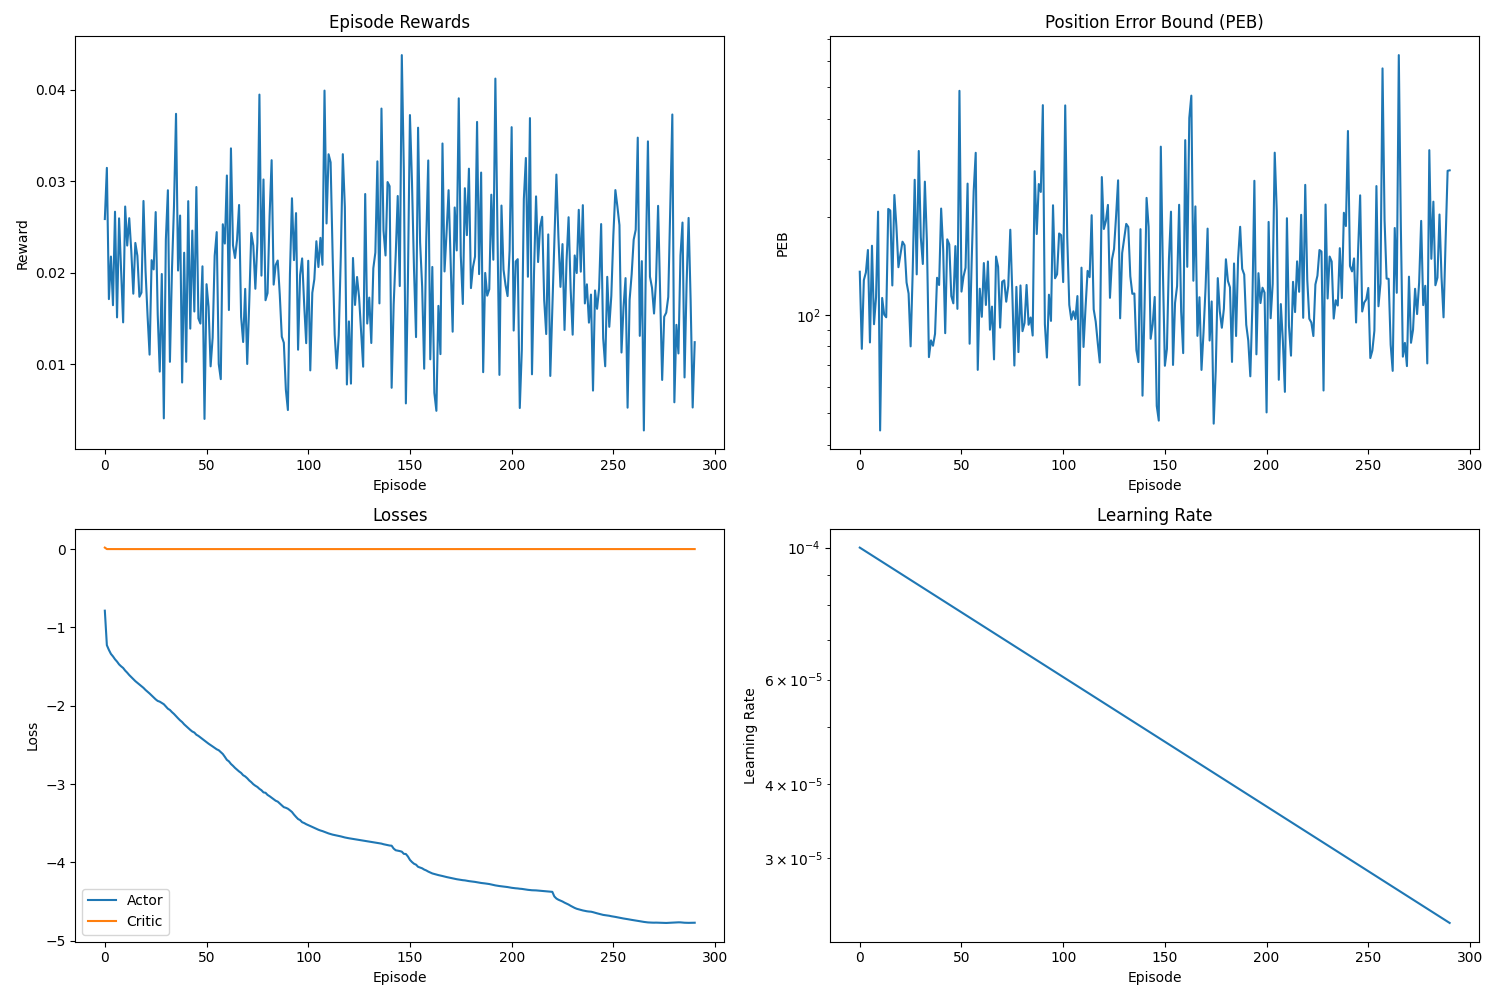
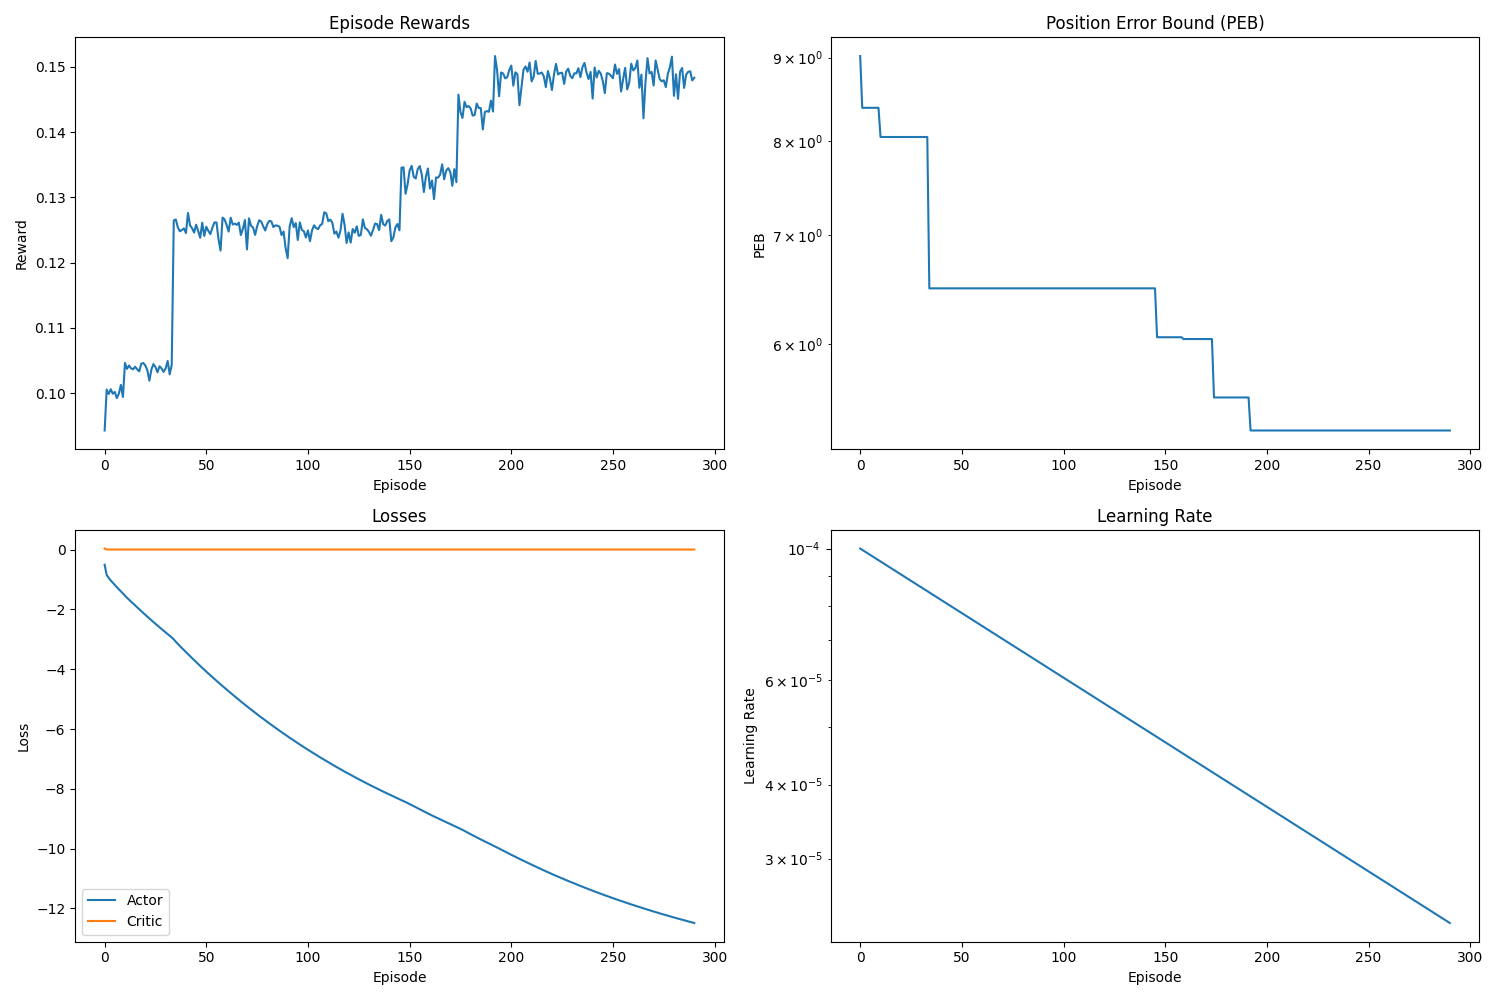
plots generated for midsem ppt

diff --git a/train_ris_isac.py b/train_ris_isac.py
@@ -154,12 +154,12 @@ class RISISACTrainer:
             
             for step in range(max_steps):
 
-                # value = np.random.uniform(0,1)
-                # if (value < epsilon_start):
-                #     explore = True
-                # else:
-                #     explore = False
-                explore = False
+                value = np.random.uniform(0,1)
+                if (value < epsilon_start):
+                    explore = True
+                else:
+                    explore = False
+                # explore = False
 
                 step_counter = step_counter + 1
                 # Select action with exploration
@@ -340,6 +340,9 @@ if __name__ == "__main__":
         # plt.legend()
         
         plt_folder = 'plots'
+        if not os.path.exists(plt_folder):
+            os.makedirs(plt_folder)
+        
         # Plot training rewards
         plt.figure(figsize=(10, 5))
         plt.plot(episodes, rewards)
@@ -373,7 +376,7 @@ if __name__ == "__main__":
         plt.xlabel('Episode')
         plt.ylabel('Power(db)')
         plt.grid(True)
-        plt.savefig(os.path.join(plt_folder,'Hybrid_power_per_episode'))
+        plt.savefig(os.path.join(plt_folder,'power_per_episode'))
         # plt.show()
 
     finally:

diff --git a/RISISAC_V2X_Sim.m b/RISISAC_V2X_Sim.m
@@ -499,6 +499,11 @@ classdef RISISAC_V2X_Sim < handle
             else
                 reward = base_reward;
             end
+
+            % if (obj.peb > obj.minpeb)
+            %     reward = reward*-1;
+            % end
+
         end
 
         function done = isEpisodeDone(obj)
@@ -636,11 +641,11 @@ classdef RISISAC_V2X_Sim < handle
                 obj.peb = obj.peb * penalty_factor;
             end
             obj.peb = sqrt((real(obj.peb)^2) - (imag(obj.peb)^2))*100;
-            % if(obj.peb < obj.minpeb)
-            %     obj.minpeb = obj.peb;
-            % else
-            %     obj.peb = obj.minpeb;
-            % end
+            if(obj.peb < obj.minpeb)
+                obj.minpeb = obj.peb;
+            else
+                obj.peb = obj.minpeb;
+            end
             peb = obj.peb;
         end
         
